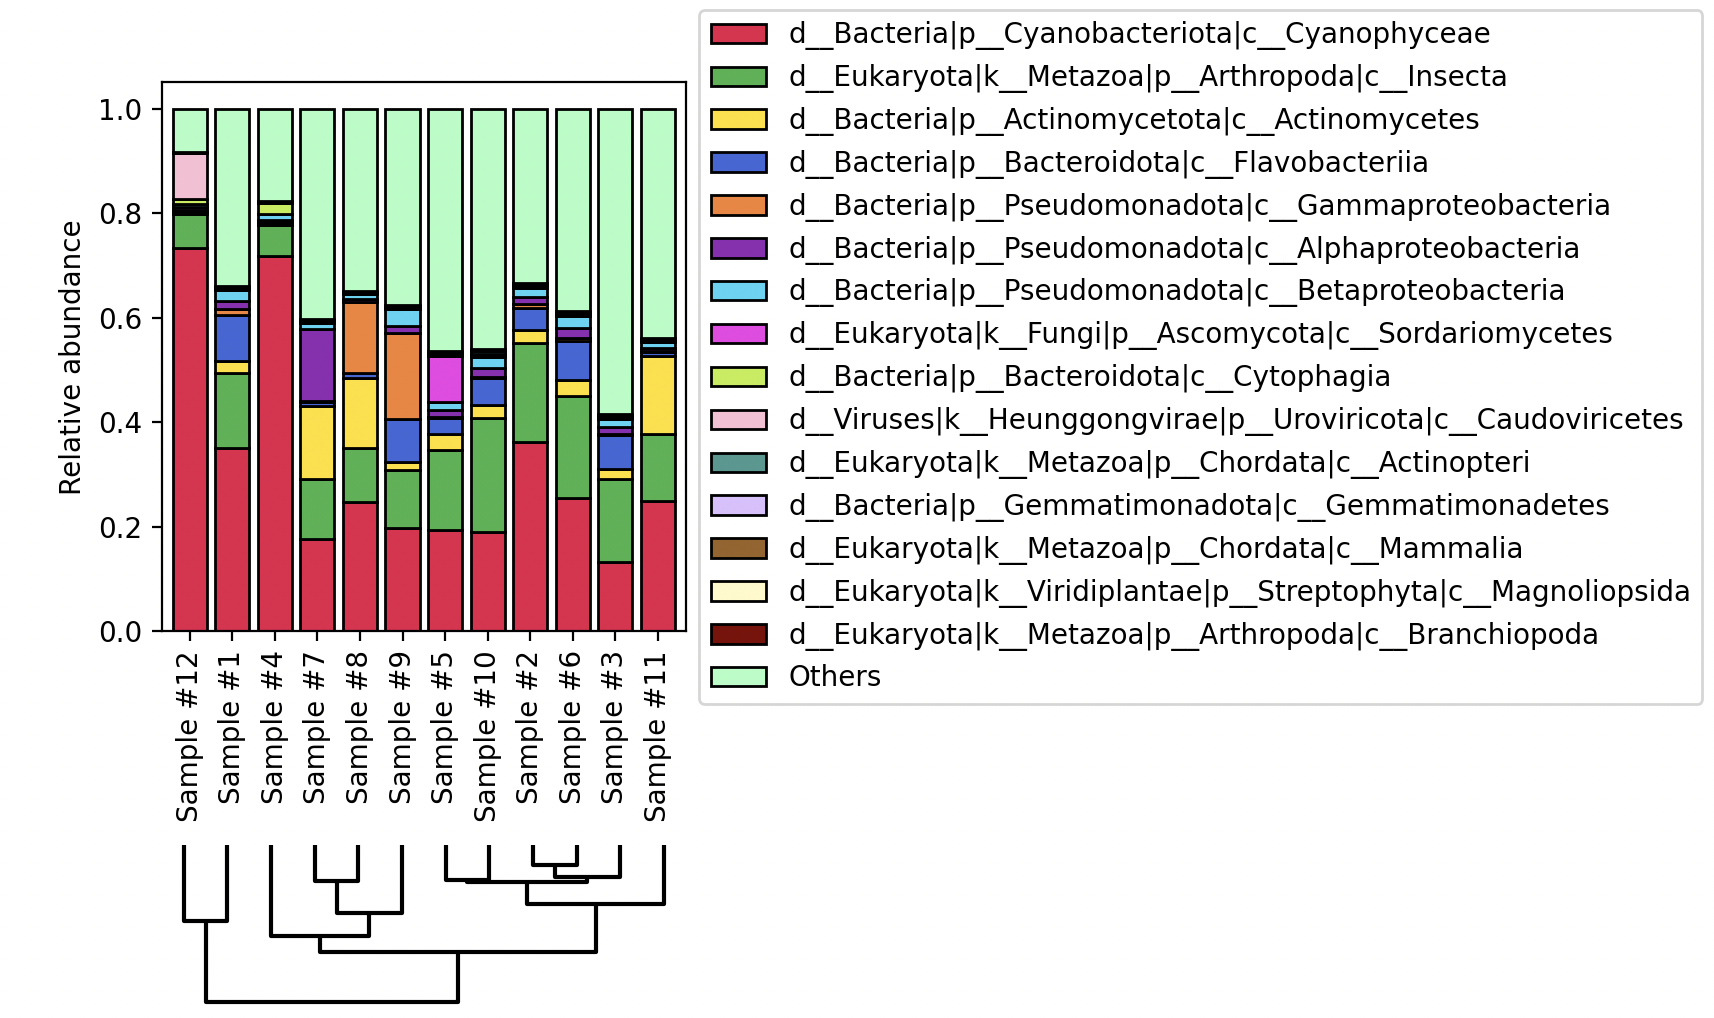
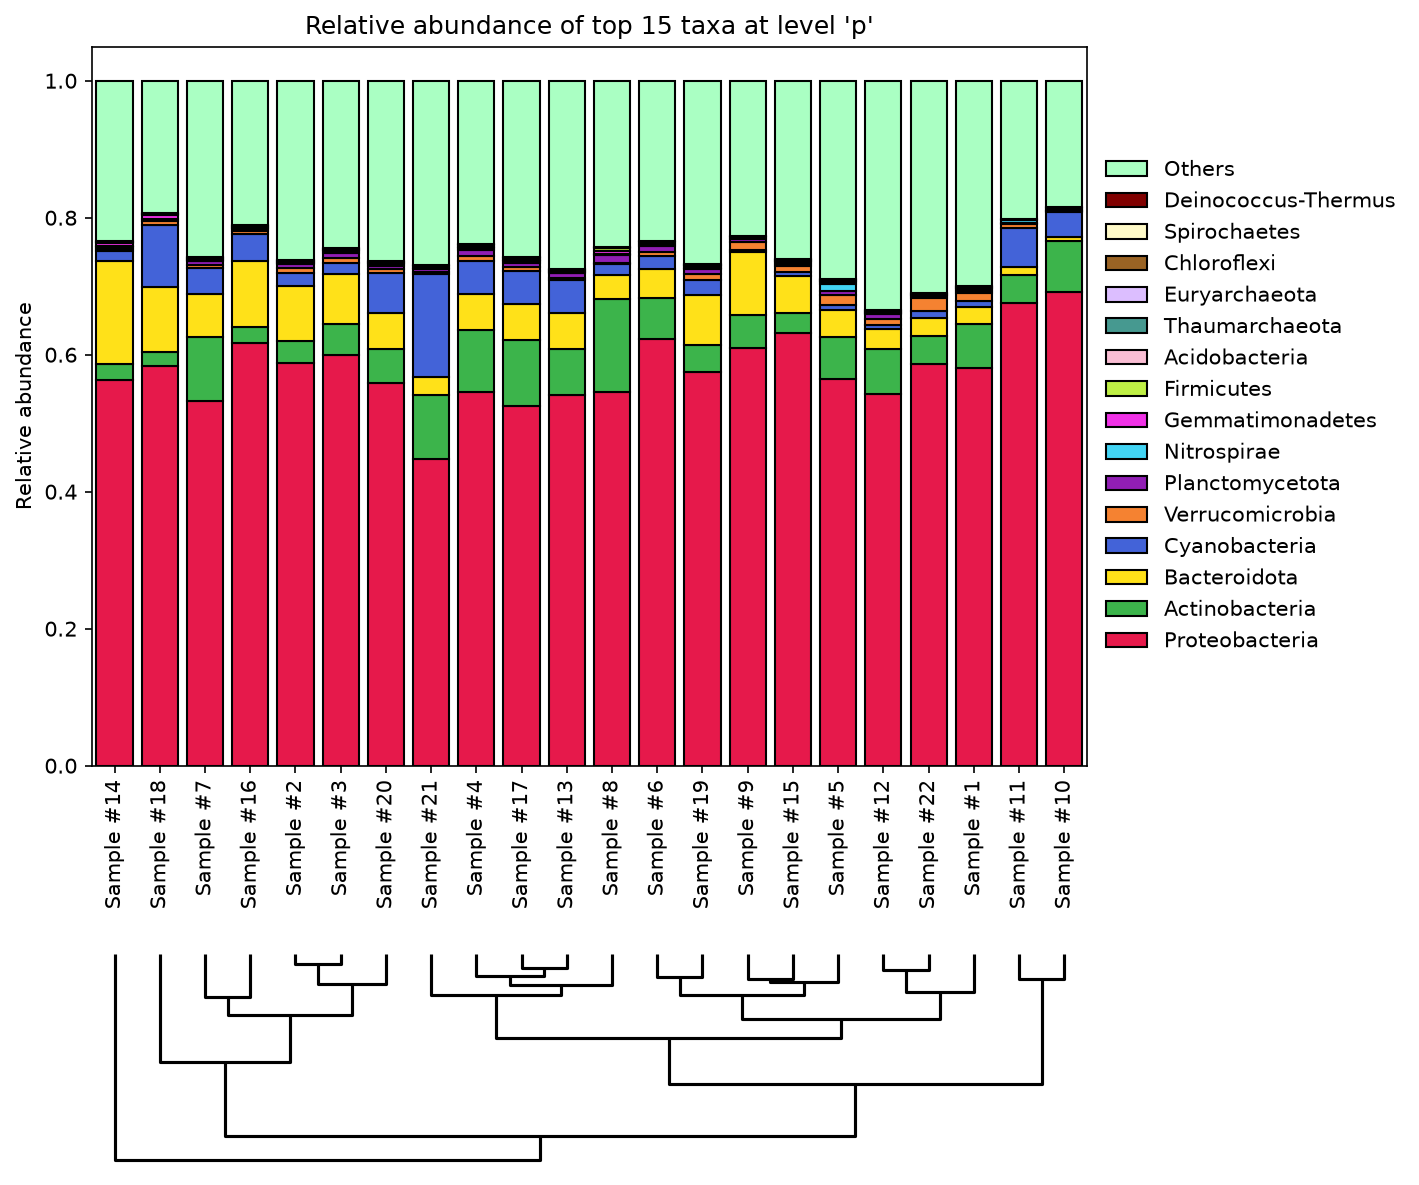
updated barplot script

diff --git a/kreport_mpa_barplot.py b/kreport_mpa_barplot.py
@@ -28,32 +28,26 @@ DISTINCT_COLORS = ['#e6194B', '#3cb44b', '#ffe119', '#4363d8', '#f58231',
                    '#aaffc3', '#808000', '#ffd8b1', '#000075', '#a9a9a9',
                    '#000000']
 
-def format_taxa_name(lineage_str, target_level, parent_str=None):
+# Width (in inches) allotted to each sample, so bars keep the same size whatever the number of samples
+SAMPLE_WIDTH = 0.3
+
+def format_taxa_name(lineage_str, target_level):
     """
-    Cleans up the Kraken MPA lineage string for the legend.
+    Reduces the Kraken MPA lineage string to the target taxon name for the legend.
     Italicizes Genus ('g') and Species ('s') using Matplotlib's math text rendering.
     """
     if lineage_str == "Others":
         return "Others"
 
-    nodes = lineage_str.split("|")
-    target_node = next((n for n in nodes if n.startswith(f"{target_level}__")), None)
-
-    if not target_node:
+    target_node = lineage_str.split("|")[-1]
+    if not target_node.startswith(f"{target_level}__"):
         return lineage_str
 
-    target_name = target_node.split("__")[1].replace("_", " ")
+    target_name = target_node.split("__", 1)[1].replace("_", " ")
 
-    # Italicize Genus and Species conventions
+    # Italicize Genus and Species conventions (escape spaces, which math text drops)
     if target_level in ['g', 's']:
-        target_name = f"$\\mathit{{{target_name}}}$"
-
-    if parent_str:
-        parent_level, parent_name = parent_str.split("__")
-        parent_name = parent_name.replace("_", " ")
-        if parent_level in ['g', 's']:
-            parent_name = f"$\\mathit{{{parent_name}}}$"
-        return f"{parent_name} | {target_name}"
+        target_name = "$\\mathit{" + target_name.replace(" ", "\\ ") + "}$"
 
     return target_name
 
@@ -62,7 +56,10 @@ def plot_stacked_barplot(tax_level_table, title, top_n, taxa_level, taxa_table, 
     """
     Shared plotting logic for clustering and generating the stacked barplot.
     """
-    fig, (ax_1, ax_2) = plt.subplots(2, 1, figsize=(16, 8), gridspec_kw={'height_ratios': [1, 0.3], 'hspace': 0.6})
+    # Constrained layout keeps both panels the same width (leaves under xticks) and packs them tightly
+    n_samples = taxa_table.shape[1]
+    fig, (ax_1, ax_2) = plt.subplots(2, 1, figsize=(n_samples * SAMPLE_WIDTH + 4, 8), layout='constrained', gridspec_kw={'height_ratios': [1, 0.3]})
+    fig.get_layout_engine().set(h_pad=0.15, hspace=0)
 
     # Hierarchical clustering of samples based on Bray-Curtis distance
     dist_matrix = spdist.pdist(taxa_table.T, metric='braycurtis')
@@ -92,23 +89,28 @@ def plot_stacked_barplot(tax_level_table, title, top_n, taxa_level, taxa_table, 
 
     rel_abundance_table = result_df / result_df.sum()
 
-    rel_abundance_table.index = [format_taxa_name(i, taxa_level, parent_name) for i in rel_abundance_table.index]
+    rel_abundance_table.index = [format_taxa_name(i, taxa_level) for i in rel_abundance_table.index]
 
     rel_abundance_table = rel_abundance_table.T.iloc[dendro['leaves']]
 
     rel_abundance_table.plot(kind='bar', stacked=True, legend=False, color=DISTINCT_COLORS, ax=ax_1, edgecolor='k', width=0.8)
 
-    n_samples = len(rel_abundance_table.index)
     ax_1.set_xlim(-0.5, n_samples - 0.5)
     ax_2.set_xlim(0, 10 * n_samples)
 
     ax_2.set_axis_off()
     ax_1.set_ylabel('Relative abundance')
-    ax_1.legend(loc='center left', bbox_to_anchor=(1, 0.5), title='')
+    # Reverse legend order so it matches the top-to-bottom stacking of the bars
+    handles, labels = ax_1.get_legend_handles_labels()
+    ax_1.legend(handles[::-1], labels[::-1], loc='center left', bbox_to_anchor=(1, 0.5), frameon=False)
 
-    fig.suptitle(title)
-    fig.subplots_adjust(right=0.4)
-    plt.tight_layout()
+    ax_1.set_title(title)
+
+    # Resize the figure so the plotting area is exactly n_samples * SAMPLE_WIDTH wide (legend width varies with labels)
+    fig.canvas.draw()
+    ax_width = ax_1.get_position().width * fig.get_figwidth()
+    fig.set_figwidth(fig.get_figwidth() + n_samples * SAMPLE_WIDTH - ax_width)
+
     plt.show()
 
 

diff --git a/README.md b/README.md
@@ -1,6 +1,6 @@
-## Varied scripts for varied tasks - from file formatting to data visualization
+## varied scripts for varied bioinformatics tasks in microbiome study, in no particular order
 ## [kreport_mpa_barplot.py](https://github.com/dsamoht/utility/blob/main/kreport_mpa_barplot.py)
-- __info__: This script can produce 2 types of stacked barplots from Kraken classification reports:  
+- __info__: This script can produce 2 types of stacked barplots from Kraken classification reports and also plot dendrogram based on Bray-Curtis distance:  
   1. Top *n* taxa at a specific taxonomic level relative to all classified sequences (ex: barplot of top 10 phyla)
   2. Top *n* taxa at a specific taxonomic level relative to a parent taxa (ex: barplot of top 10 cyanobacterial genus inside the *Cyanobacteria* phylum)
 - __input__: multiple kraken reports merged into a single table via 2 commands:  
@@ -9,10 +9,19 @@
 - __dependencies__: pandas, matplotlib, scipy  
 - __usage__:
 ```
-python kreport_mpa_barplot.py --input [KREPORT_MPA] --barplot_relative_to_all --tax-level [p/c/o/f/g/s] --top_n [INT]
-python kreport_mpa_barplot.py --input [KREPORT_MPA] --barplot_relative_to_parent --tax_name [STRING] --tax-level [p/c/o/f/g/s] --top_n [INT]
+python kreport_mpa_barplot.py -i [KREPORT_MPA] -l [p/c/o/f/g/s] -n [INT]
+python kreport_mpa_barplot.py -i [KREPORT_MPA] -l [p/c/o/f/g/s] -n [INT] -p [PARENT_TAXA_STRING]
 ```
-- __example__: Top 15 classes relative to all classified sequences
+  - `-i/--input`: combined Kraken MPA table
+  - `-l/--level`: target taxonomic level (p/c/o/f/g/s)
+  - `-n/--top`: number of top taxa to display in colors (default 10, max 20)
+  - `-p/--parent`: optional parent taxa (ex: `p__Cyanobacteriota`); abundances are then relative to that parent
+
+  Plot top 5 orders within Cyanobacteria:
+```
+python kreport_mpa_barplot.py -i kraken_mpa.tsv -l o -n 5 -p p__Cyanobacteriota
+```
+- __example__: Top 15 prokaryotic phyla (input filtered to Bacteria and Archaea)
 ![alt text](img/barplot_example.png)
 
 
